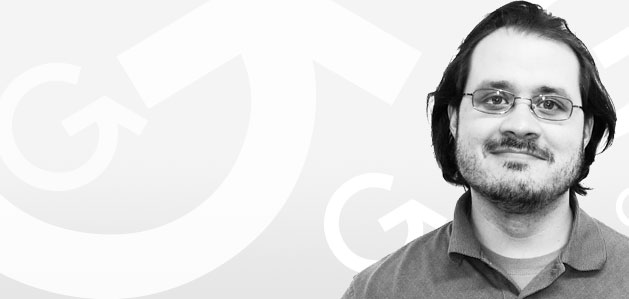
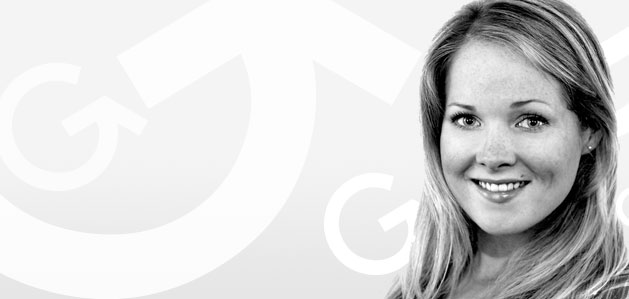
fixed random photo display

Changed region(s): [[0.5437, 0.0, 1.0, 1.0]]

diff --git a/templates/index.html b/templates/index.html
@@ -41,7 +41,7 @@
 	<!--uncomment this if there is a feature (see above)-->
 	<div id="feature-1" class="ui-tabs-panel ui-tabs-hide">
 		
-		<div id="front_carousel_pledge_{{ 124|make_list|random }}">
+		<div id="front_carousel_pledge_{{ 1234|make_list|random }}">
 		<div id="front_pledge">&#8220;Government transparency is critical to creating a better democracy, and of highest importance in how I cast my vote. I pledge, through my sustained engagement, to hold public officials accountable for being open and transparent.&#8221;
 		</div>
 		
